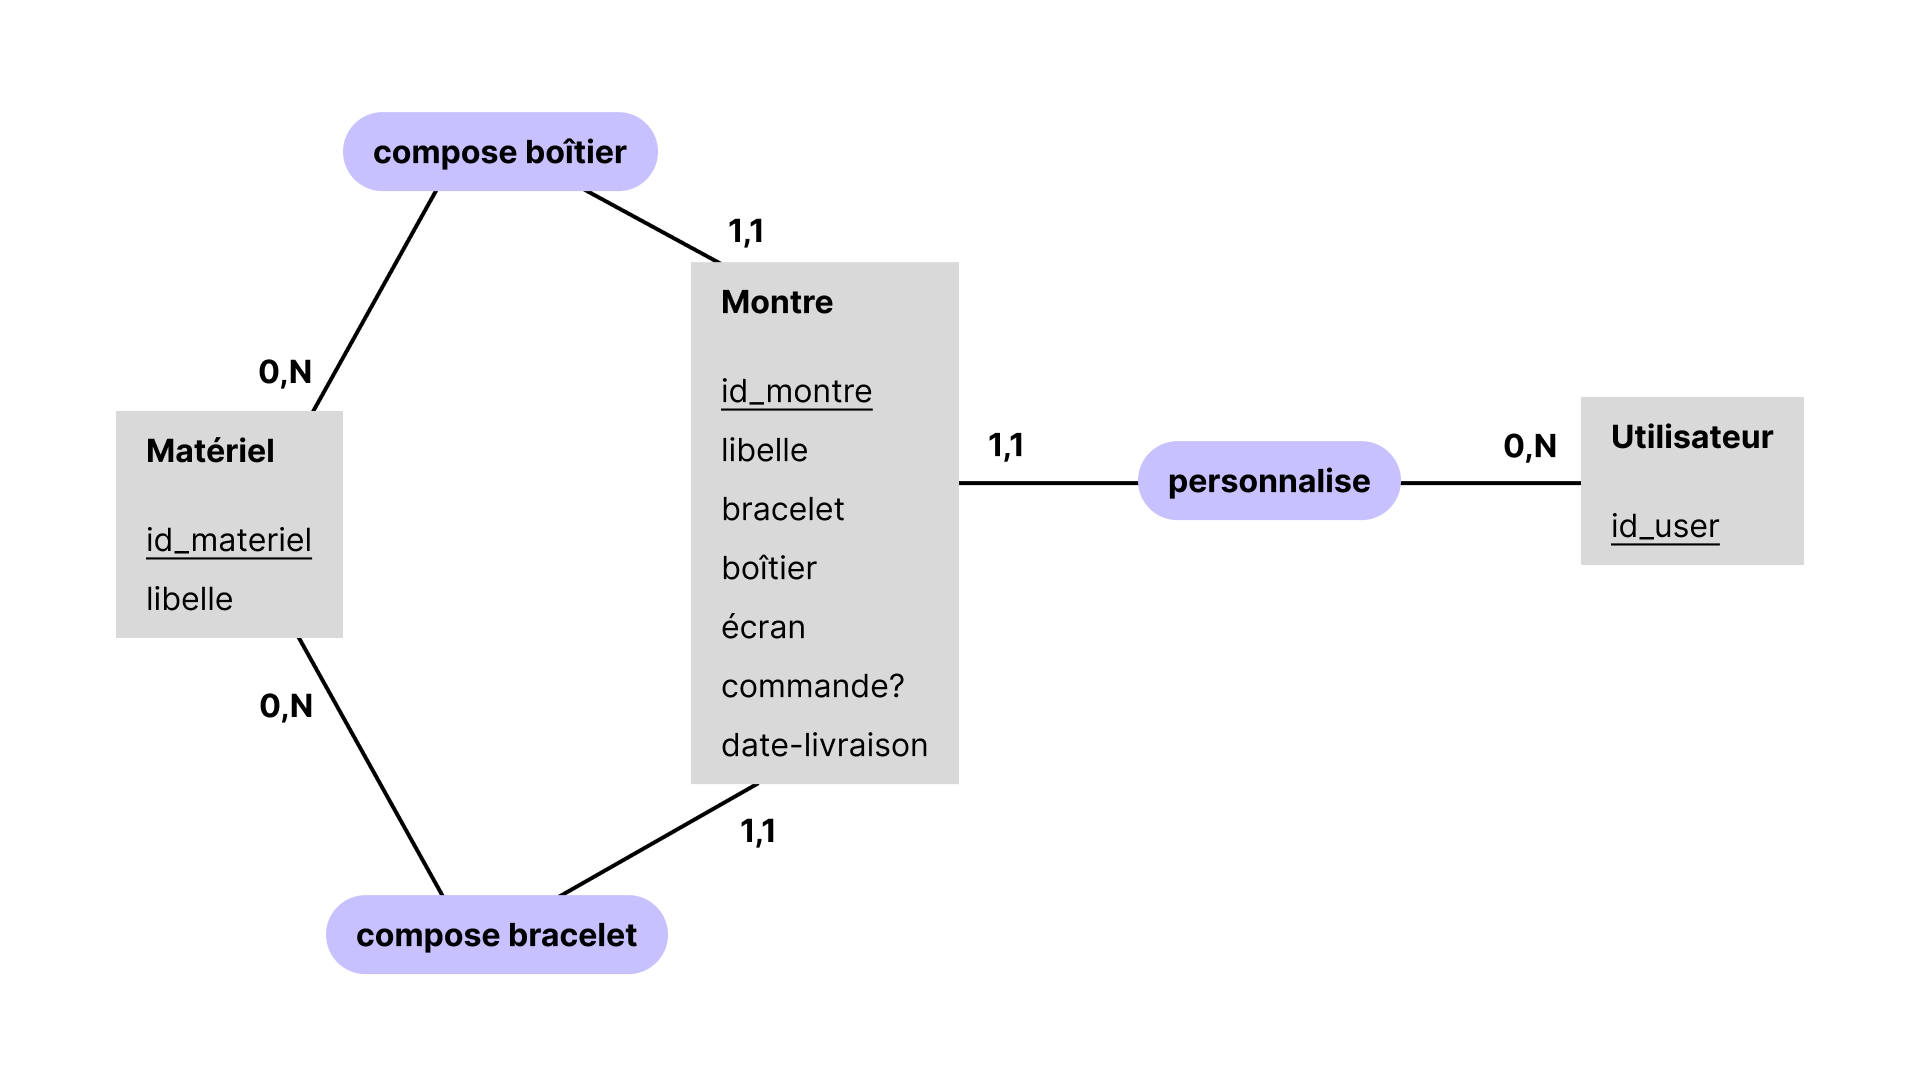
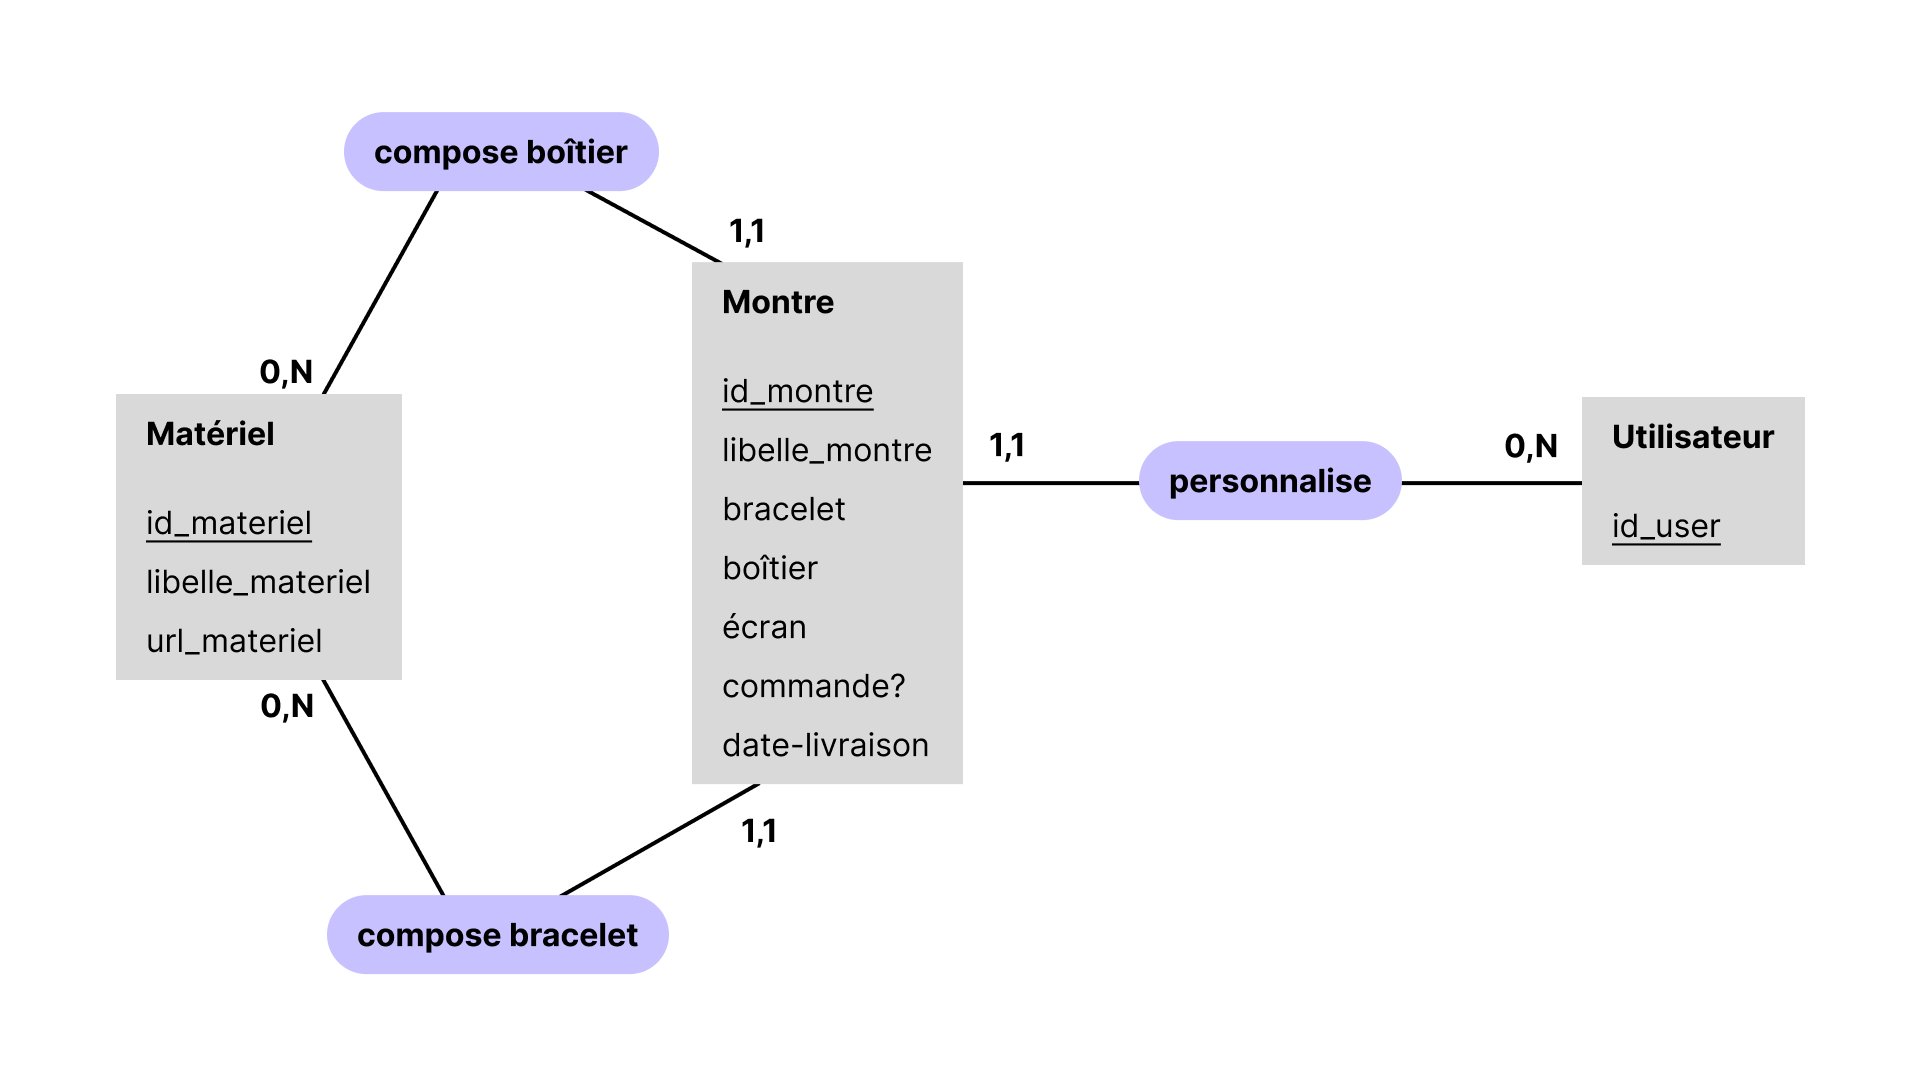
BDD.SQL mis a jour - MCD/MPD actualisés

diff --git a/README.md b/README.md
@@ -15,7 +15,7 @@ Vous avez rendu à la racine du projet :
 
 - [x] Le modèle conceptuel de données (nom : [MCD.png](/MCD.png) ou [MPD.pdf](/MPD.png) [^1])
 - [ ] Et compléter le fichier [bdd.sql](/bdd.sql) détaillant le code pour la création des tables, vues et policies créées
-- [ ] Avez-vous bien invité abdallah.makhoul@univ-fcomte.fr dans votre 'Organisation' Supabase comme développeur ?
+- [x] Avez-vous bien invité abdallah.makhoul@univ-fcomte.fr dans votre 'Organisation' Supabase comme développeur ?
 
 ## R312 | Intégrer ([Pierre Pracht : AC 2401](https://moodle.univ-fcomte.fr/mod/assign/view.php?id=612668))
 
